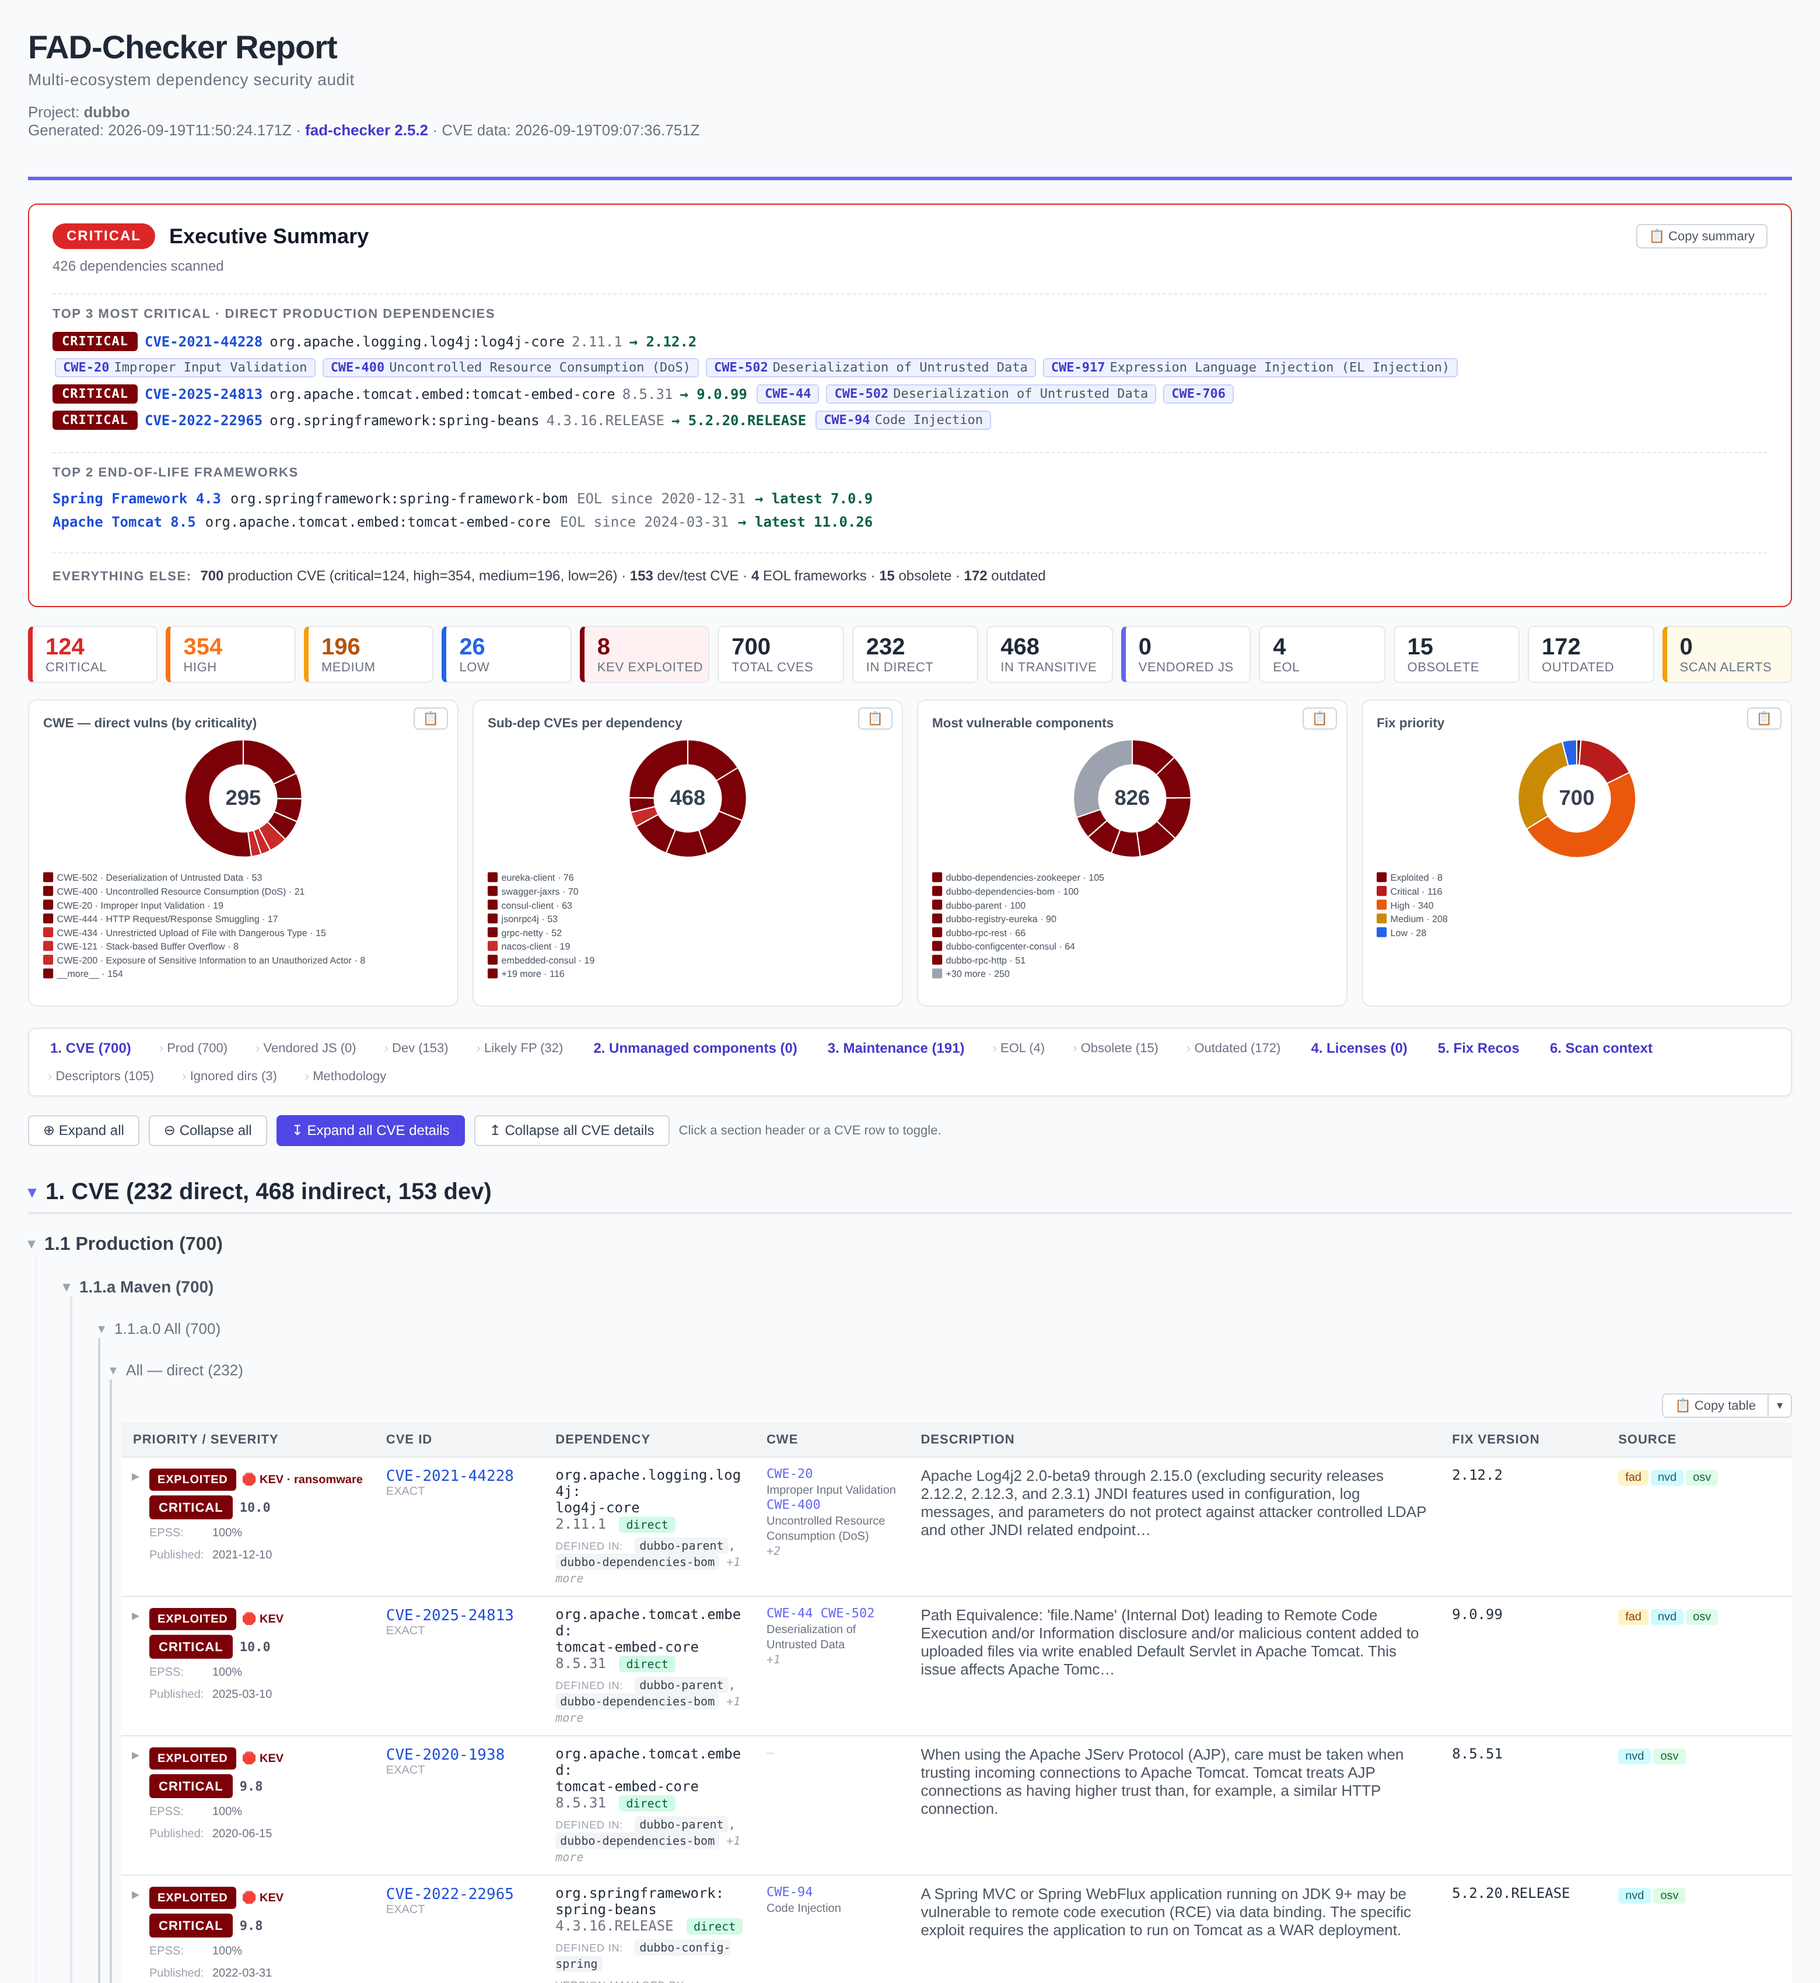
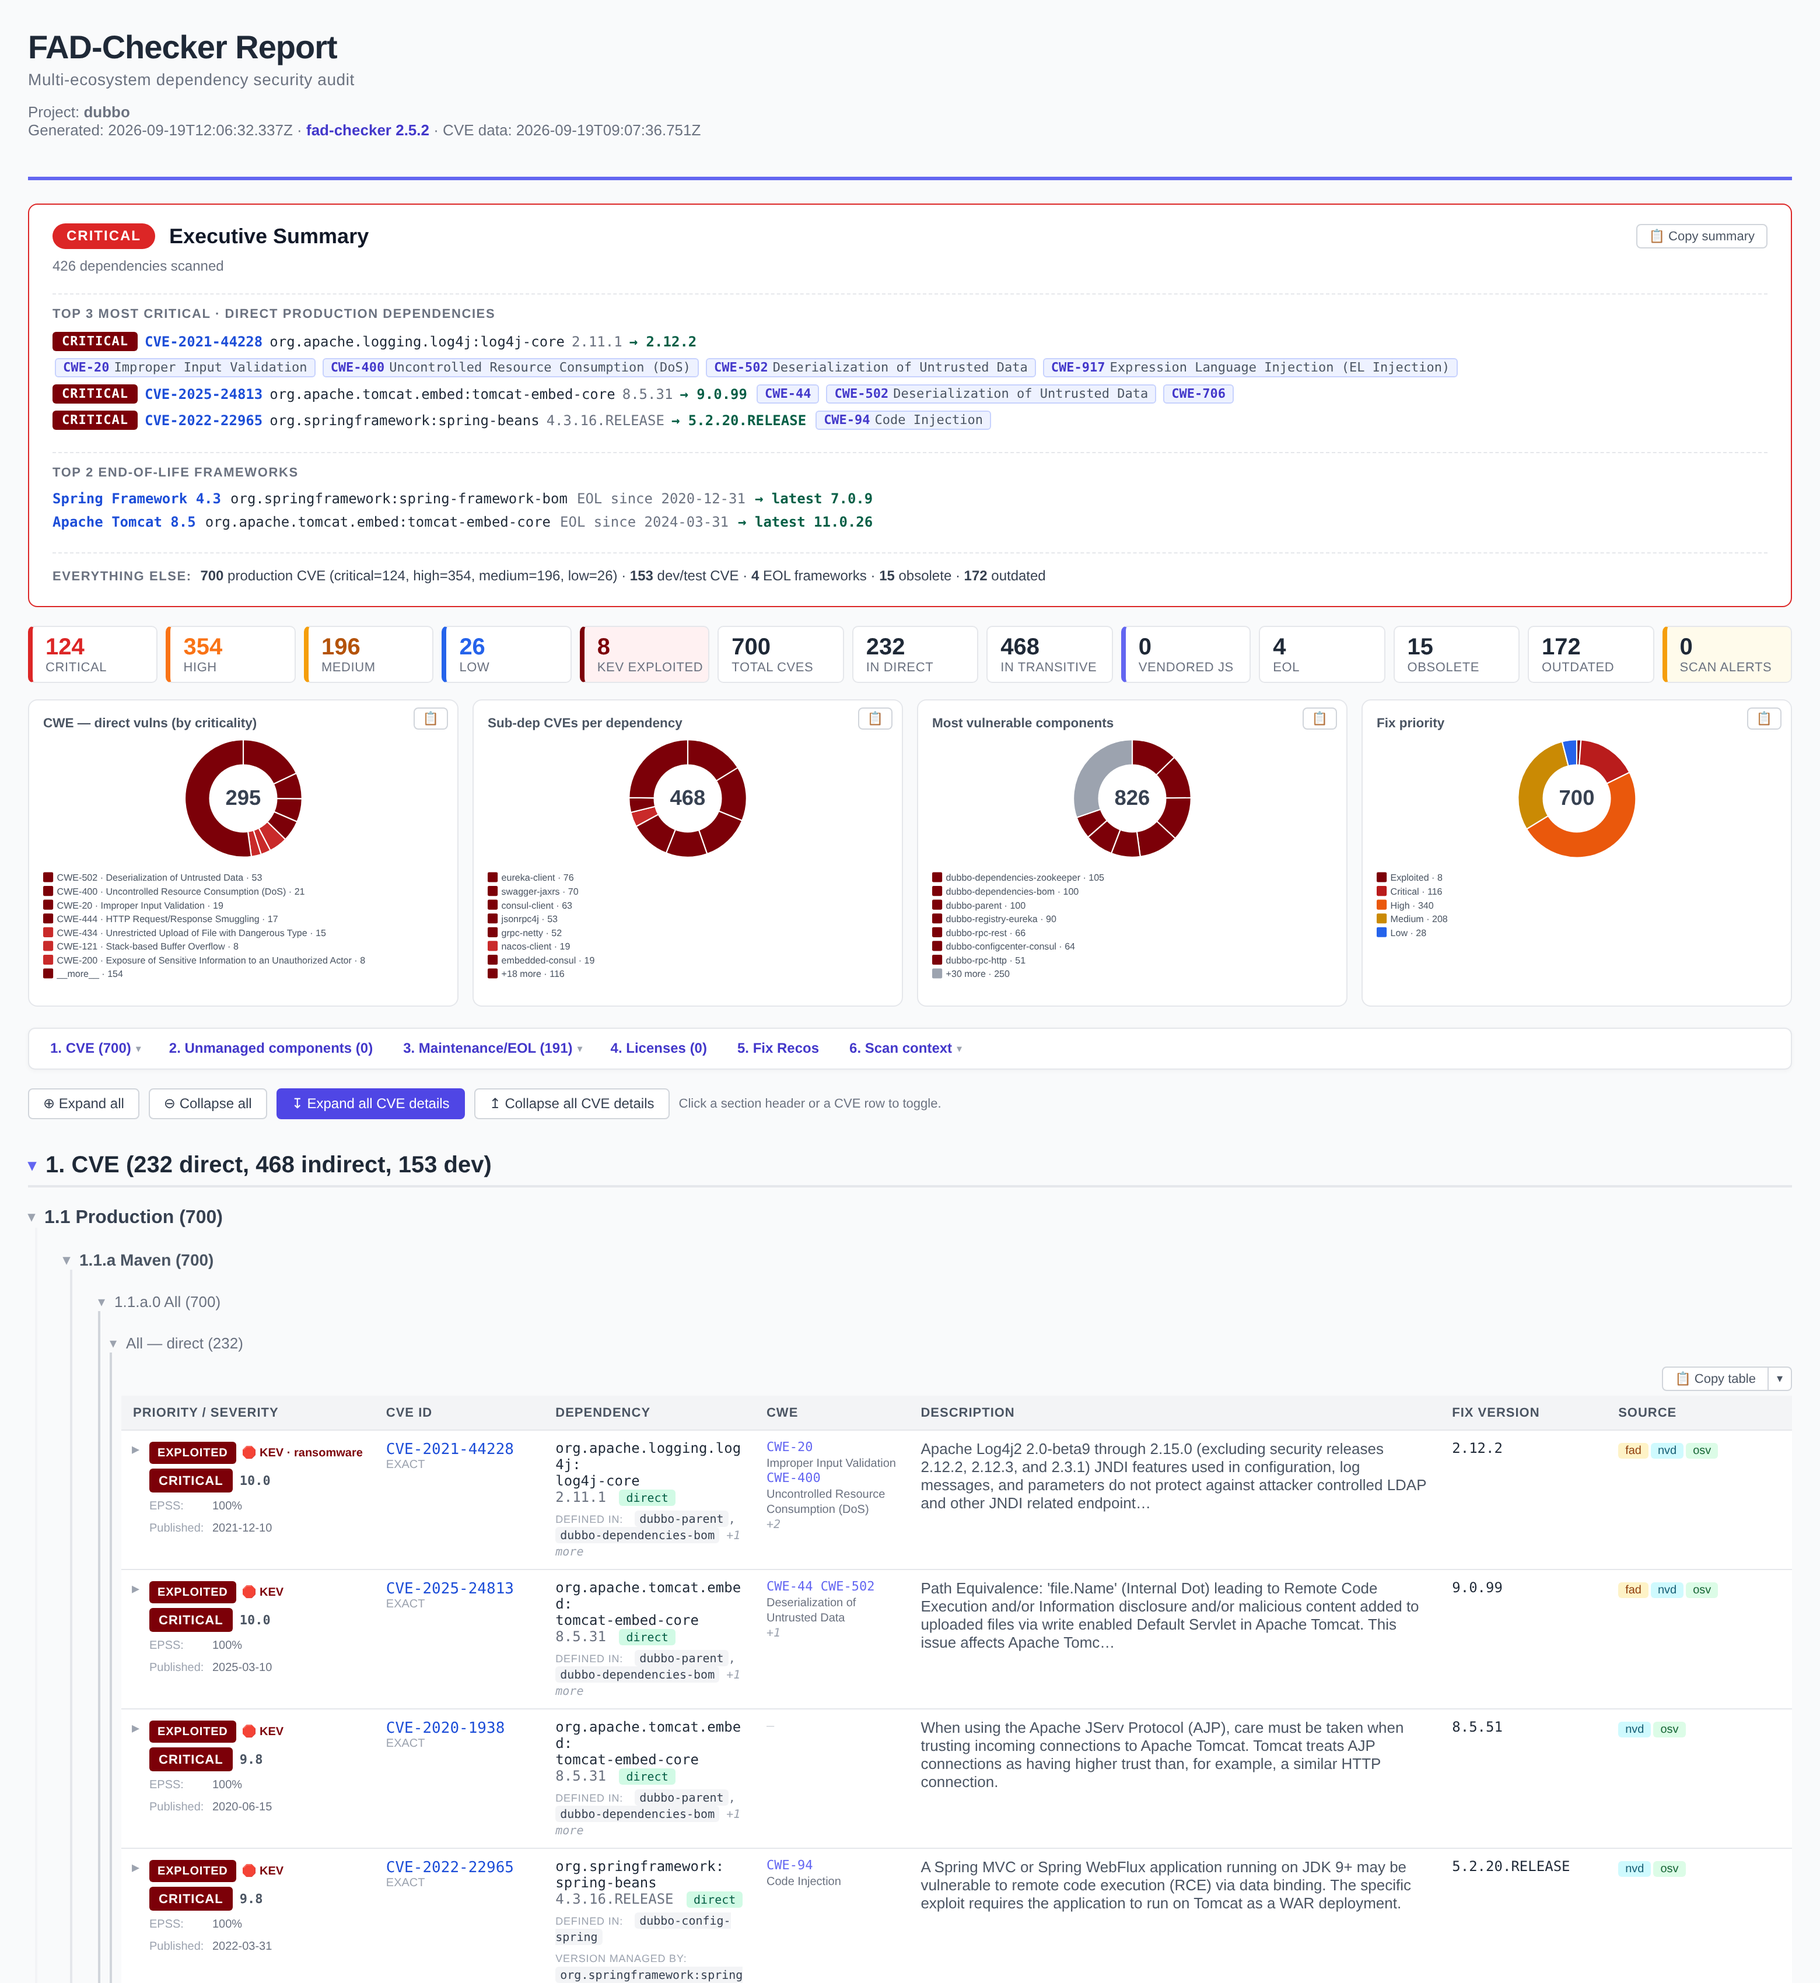
feat(report): the pinned chapter bar is one row of dropdowns, and root 3 is Maintenance / EOL
The sticky bar listed every chapter AND every sub-chapter inline behind a "›".
On a full report that is sixteen links, which wrapped onto two rows and then sat
there taking a third of the viewport for the entire scroll — a navigation aid
that spent most of its time in the way of what it was navigating.

Sub-chapters are dropdowns now: six chapters on one 36px row, each with
sub-chapters revealing them on hover or keyboard focus. CSS only, no script. A
report is routinely opened straight from a mail attachment, and a nav that needs
JavaScript to open is a nav that silently stops working there; :hover with
:focus-within covers pointer and keyboard without either. The invisible ::after
strip under each chapter bridges the gap to its menu — without it the pointer
crossing the gap closes the menu it is travelling towards.

Root 3 was "Maintenance / lifecycle", which named the category rather than the
thing a reader scans the chapter list for. It is "Maintenance / EOL" in the
heading and "Maintenance/EOL" in the compact bar, so the nav chip and its target
now use the same words. Two tests pinned the old string and were updated with it.

853 tests green, zero horizontal overflow at 900/1280/1600, the .doc still hides
the bar entirely, report.png regenerated.

diff --git a/lib/cve-report.js b/lib/cve-report.js
@@ -170,8 +170,18 @@ h2 { margin: 32px 0 12px; font-size: 20px; border-bottom: 2px solid #e5e7eb; pad
 .toc a { color: #4338ca; text-decoration: none; padding: 2px 6px; border-radius: 3px; }
 .toc a:hover { background: #eef2ff; }
 .toc a.toc-root { font-weight: 700; }
-.toc a.toc-sub { font-size: 11px; color: #6b7280; padding-left: 4px; }
-.toc a.toc-sub::before { content: "› "; color: #c7cdd6; }
+.toc .toc-item { position: relative; display: inline-flex; align-items: center; border-radius: 4px; }
+.toc .toc-has-sub { outline: none; }
+.toc .toc-caret { font-size: 9px; color: #9ca3af; padding-right: 4px; margin-left: -2px; }
+.toc .toc-has-sub:hover, .toc .toc-has-sub:focus-within { background: #eef2ff; }
+.toc .toc-has-sub:hover .toc-caret, .toc .toc-has-sub:focus-within .toc-caret { color: #4338ca; }
+.toc .toc-menu { display: none; position: absolute; top: 100%; left: 0; z-index: 70; min-width: 168px;
+	background: #fff; border: 1px solid #d1d5db; border-radius: 6px; box-shadow: 0 6px 18px rgba(0,0,0,.12); padding: 4px; }
+/* A gap between the chapter and its menu would close the menu as the pointer crosses it. */
+.toc .toc-has-sub::after { content: ""; position: absolute; top: 100%; left: 0; right: 0; height: 6px; }
+.toc .toc-has-sub:hover .toc-menu, .toc .toc-has-sub:focus-within .toc-menu { display: block; }
+.toc a.toc-sub { display: block; font-size: 11px; color: #4b5563; padding: 4px 9px; border-radius: 4px; white-space: nowrap; }
+.toc a.toc-sub:hover { background: #eef2ff; color: #4338ca; }
 .exec-summary .exec-top { margin-top: 8px; padding-top: 10px; border-top: 1px dashed #e5e7eb; }
 .exec-summary .exec-top-title { font-size: 11px; font-weight: 700; text-transform: uppercase; letter-spacing: .8px; color: #6b7280; margin-bottom: 6px; }
 .exec-summary .exec-top-list { list-style: none; padding: 0; margin: 0; font-size: 12px; }
@@ -1765,9 +1775,10 @@ function buildBody({ cveMatches, devCveMatches, embeddedMatches, retireMatches, 
 		`<div class="empty">No unmanaged binaries, vendored JavaScript or committed crypto material found.</div>`,
 		{ id: "chbin", open: (embTotal + unmTotal + vjsTotal + certTotal) > 0 });
 
-	// Root 3 — Maintenance / lifecycle (EOL + obsolete + outdated).
+	// Root 3 — Maintenance / EOL (end-of-life + obsolete + outdated). Named for EOL because
+	// that is the part a reader scans the chapter list for; "lifecycle" named the category.
 	const maintRoot = majorSection(
-		`3. Maintenance / lifecycle (${eolCount}, ${obsTotal} obsolete, ${outTotal} outdated)`,
+		`3. Maintenance / EOL (${eolCount}, ${obsTotal} obsolete, ${outTotal} outdated)`,
 		minorSection(eolChapterTitle, renderEolTable(eolResults), { id: "ch4", open: eolTotal > 0 }) +
 		minorSection(`3.2 Obsolete / deprecated (${obsTotal})`, renderObsoleteTable(obsoleteResults), { id: "ch5", open: obsTotal > 0 }) +
 		minorSection(`3.3 Outdated (${outTotal})`, renderOutdatedTable(outdatedResults), { id: "ch6", open: outTotal > 0 && outTotal <= 50 }),
@@ -1801,7 +1812,7 @@ function buildBody({ cveMatches, devCveMatches, embeddedMatches, retireMatches, 
 			...(vjsTotal ? [{ id: "ch1d", label: `Vendored JS (${vjsTotal})` }] : []),
 			...(certTotal ? [{ id: "ch1f", label: `Crypto (${certTotal})` }] : []),
 		] },
-		{ id: "chmaint", label: `3. Maintenance (${eolTotal + obsTotal + outTotal})`, sub: [
+		{ id: "chmaint", label: `3. Maintenance/EOL (${eolTotal + obsTotal + outTotal})`, sub: [
 			{ id: "ch4", label: `EOL (${eolTotal})` },
 			{ id: "ch5", label: `Obsolete (${obsTotal})` },
 			{ id: "ch6", label: `Outdated (${outTotal})` },
@@ -1915,11 +1926,22 @@ function pickTopEol(eolResults, n) {
 
 // Hierarchical TOC. `entries` is an array of { id, label, sub?: [{id,label}] };
 // roots render as bold chips, their sub-chapters as smaller muted chips after them.
+/**
+ * The pinned chapter bar. Sub-chapters used to sit inline behind a "›", so a full report
+ * listed sixteen links and the sticky bar wrapped onto two rows — a third of the viewport,
+ * on every scroll. They are dropdowns now: one row of chapters, each revealing its own
+ * sub-chapters on hover or keyboard focus.
+ *
+ * Deliberately CSS-only (:hover / :focus-within). A nav that needs JavaScript to open is a
+ * nav that silently stops working in a report someone opens from a mail attachment.
+ */
 function renderToc(entries) {
 	const renderOne = e => {
 		const root = `<a class="toc-root" href="#${esc(e.id)}">${esc(e.label)}</a>`;
-		const subs = (e.sub || []).map(s => `<a class="toc-sub" href="#${esc(s.id)}">${esc(s.label)}</a>`).join("");
-		return root + subs;
+		if (!e.sub || !e.sub.length) return `<span class="toc-item">${root}</span>`;
+		const subs = e.sub.map(sb => `<a class="toc-sub" href="#${esc(sb.id)}">${esc(sb.label)}</a>`).join("");
+		return `<span class="toc-item toc-has-sub" tabindex="0">${root}<span class="toc-caret" aria-hidden="true">▾</span>`
+			+ `<span class="toc-menu">${subs}</span></span>`;
 	};
 	return `<nav class="toc">${(entries || []).map(renderOne).join("")}</nav>`;
 }

diff --git a/test/cve-report.test.js b/test/cve-report.test.js
@@ -545,7 +545,7 @@ test("EOL chapter: an unsupported finding renders in its own band with both date
 	assert.ok(html.includes("+1 more component at cycle 5.4"));
 	assert.ok(html.includes("composer:php"), "the php runtime renders without a leading slash");
 	assert.ok(html.includes("3.1 End-of-Life / out-of-support frameworks (1 EOL, 1 out of support)"));
-	assert.ok(html.includes("3. Maintenance / lifecycle (1 EOL, 1 out of support, 0 obsolete, 0 outdated)"));
+	assert.ok(html.includes("3. Maintenance / EOL (1 EOL, 1 out of support, 0 obsolete, 0 outdated)"));
 	const headers = html.match(/<th>Product<\/th><th>Dependency<\/th><th>EOL date<\/th><th>Latest<\/th><th>Source<\/th><th>Notes<\/th>/g) || [];
 	assert.equal(headers.length, 2, "both bands use the 6-col header the Word colgroup regex matches");
 });
@@ -553,7 +553,7 @@ test("EOL chapter: an unsupported finding renders in its own band with both date
 test("EOL chapter: with only EOL findings the heading and layout are unchanged", () => {
 	const html = generateHtmlReport(eolPayload([eolPhp]));
 	assert.ok(html.includes("3.1 End-of-Life frameworks (1)"));
-	assert.ok(html.includes("3. Maintenance / lifecycle (1 EOL, 0 obsolete, 0 outdated)"));
+	assert.ok(html.includes("3. Maintenance / EOL (1 EOL, 0 obsolete, 0 outdated)"));
 	assert.ok(!html.includes("Out of active support"));
 	assert.ok(html.includes("2022-11-28"));
 });

diff --git a/CLAUDE.md b/CLAUDE.md
@@ -145,6 +145,7 @@ For the deep dive — pipeline stages, the resolved-deps Map shape, report struc
 - **No `process.exit(1)` mid-pipeline**: a parse/rewrite failure for one POM logs and continues so the summary still prints.
 - **HTML report is self-contained**: inline CSS, no external assets. The `.doc` variant is the same HTML with Office XML namespace meta tags — Word opens it natively.
 - **A table must never widen the PAGE**: a table's minimum width is the sum of its columns' longest UNBREAKABLE token, and chapter 1 nests ecosystem → manifest → scope, each level costing ~30px (`details.report-subsection > div`). Measured at 495px of horizontal document overflow on the Dubbo report before the fix. Three rules keep it at 0 (verified 768→1600px): `overflow-wrap: anywhere` on the columns that hold long tokens ONLY — it is what shrinks min-content width, unlike `word-break: break-word` — with short cells (`td.cve`, `td.fix`, the severity badge) explicitly exempt so an identifier is not chopped into `CVE-`/`2021-`/`44228`; `.table-wrap { overflow-x: auto }` so any residue scrolls the table, never `<body>`; and a flattened inset past the second nesting level. The `.doc` stylesheet already hard-fitted tables for Word; the HTML never did.
+- **The pinned chapter bar is one row of dropdowns** (`renderToc`): sub-chapters used to sit inline behind a `›`, so a full report listed sixteen links and the sticky bar wrapped onto two rows — a third of the viewport, on every scroll. Each chapter with sub-chapters now reveals them on hover or keyboard focus. Deliberately **CSS-only** (`:hover` / `:focus-within`): a nav that needs JavaScript to open is a nav that silently stops working in a report opened from a mail attachment. The invisible `::after` strip under each chapter bridges the gap to its menu, or the pointer crossing it would close the menu. Root 3 is **Maintenance / EOL**, named for the part a reader scans the chapter list for.
 - **A finding's "defined in" names MODULES, capped at two**: `renderDefinedIn` labels each descriptor with `lib/module-names.js` and shows at most 2 (`+N more`), the full path staying as the tooltip. "dubbo-dependencies-zookeeper" instead of "dubbo-dependencies/dubbo-dependencies-zookeeper/pom.xml" says the same thing in a quarter of the width, and that cell's width was what squeezed the Description column. `RENDER_CTX.moduleNames` is populated at the TOP of `buildBody`, before any table renders.
 - **The injected `<colgroup>` is a HINT in HTML, a clamp in Word**: `injectColgroups` now runs for both outputs, but the HTML deliberately does NOT set `table-layout: fixed`. It was tried: with `overflow-wrap: anywhere` a cell has no natural minimum, so an 8% column laminated `org.apache.logging.log4j:log4j-core` into four characters per line. Auto layout takes the same proportions as a hint and refuses to go below what content needs; `td.dep` also carries an explicit `min-width` floor for the same reason. Word gets `table-layout: fixed` in its own stylesheet, where it has no better option.
 - **Priority / severity / published are ONE cell, four lines** (`priorityCell`): band + KEV, severity + CVSS score, then `EPSS:` and `Published:` as labelled dimmed rows (the key is an inline-block with a min-width AND a right padding — the padding applies after the `::after` colon, which min-width alone does not guarantee, so a long key like `Published` stops butting against its value). They are labelled because neither a bare percentage nor a bare date has a column header any more. Three narrow fixed-width columns were spending ~22% of the table on ~8% of the information. **Both Word paths must be kept in sync when this cell changes**: the `.doc` stylesheet states `display` explicitly (Word honours block/inline on a `<div>` unreliably) and `inlineStylesForWord` rewrites the inline chips to `<span>` with inline styles, because the clipboard carries no stylesheet. `TABLE_COLGROUPS.cve.match` keys on the exact header text — editing the header without it silently drops the Word column widths.

diff --git a/CHANGELOG.md b/CHANGELOG.md
@@ -29,6 +29,12 @@ This project adheres to [Semantic Versioning](https://semver.org/).
   version, its docs, its issue tracker — without asking whoever ran the scan.
 
 ### Changed
+- **The pinned chapter bar is one row of dropdowns**, and chapter 3 is now
+  **Maintenance / EOL**. Sub-chapters used to sit inline behind a `›`, so a full report listed
+  sixteen links and the sticky bar wrapped onto two rows — a third of the viewport, on every
+  scroll. Each chapter that has sub-chapters now reveals them on hover or keyboard focus,
+  using CSS only: a nav that needs JavaScript to open is a nav that silently stops working in
+  a report someone opens from a mail attachment.
 - **The merged priority cell reads as four labelled lines**, and the CVE table's widths were
   rebalanced around it: band + KEV, severity + CVSS score, then `EPSS: 100%` and
   `Published: 2021-12-10`. The last two are labelled because neither a bare percentage nor a
